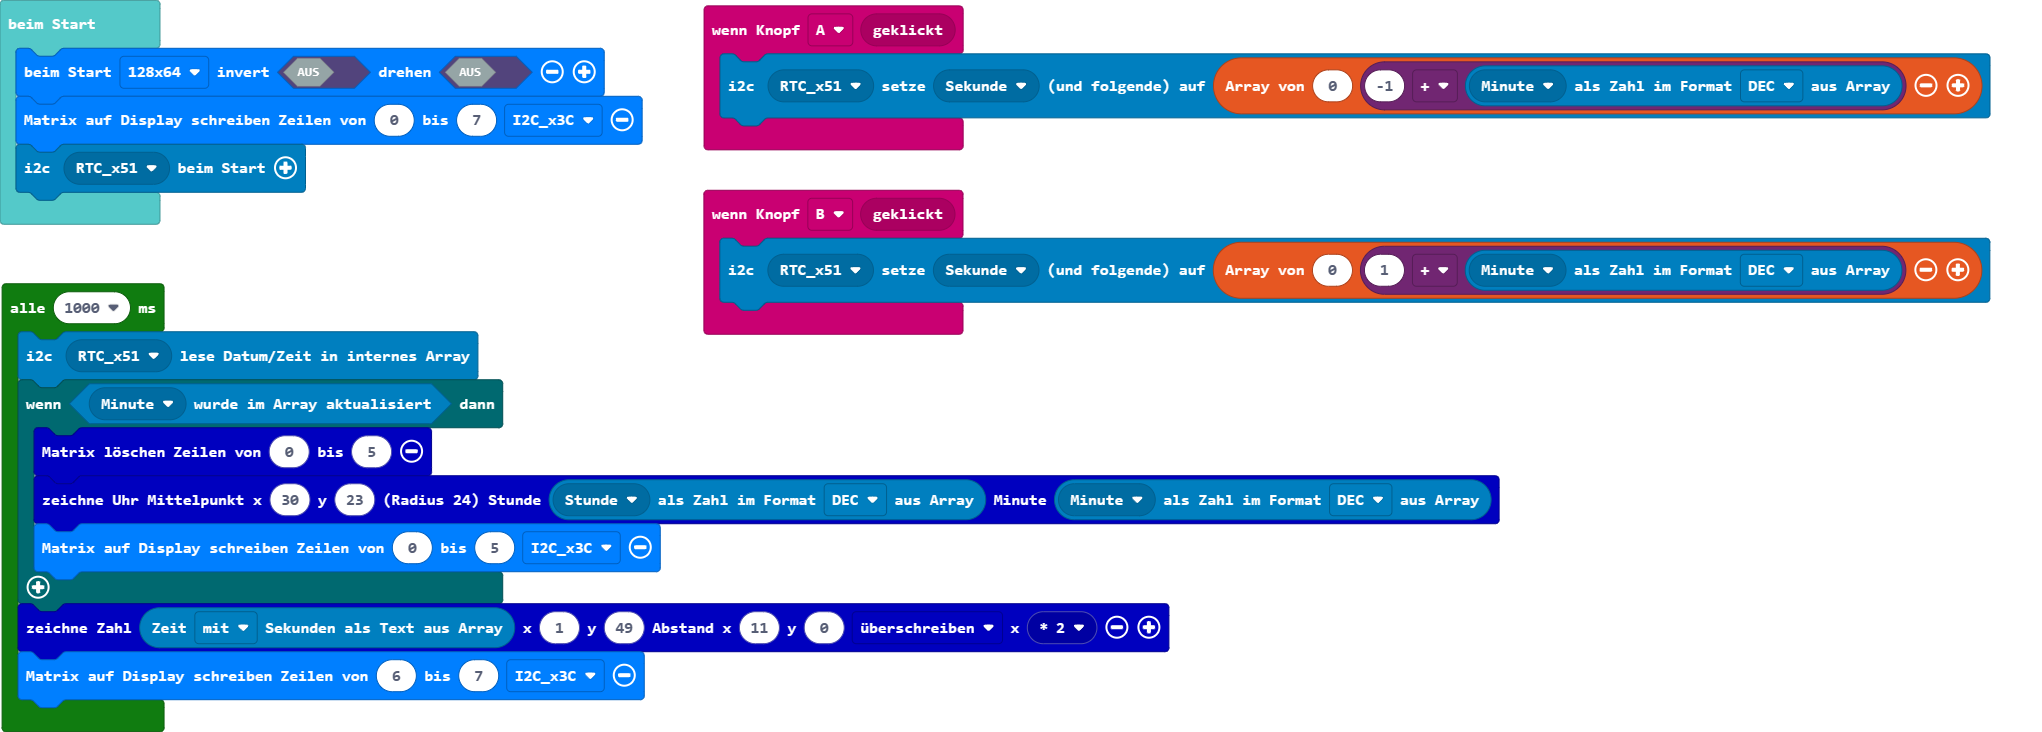
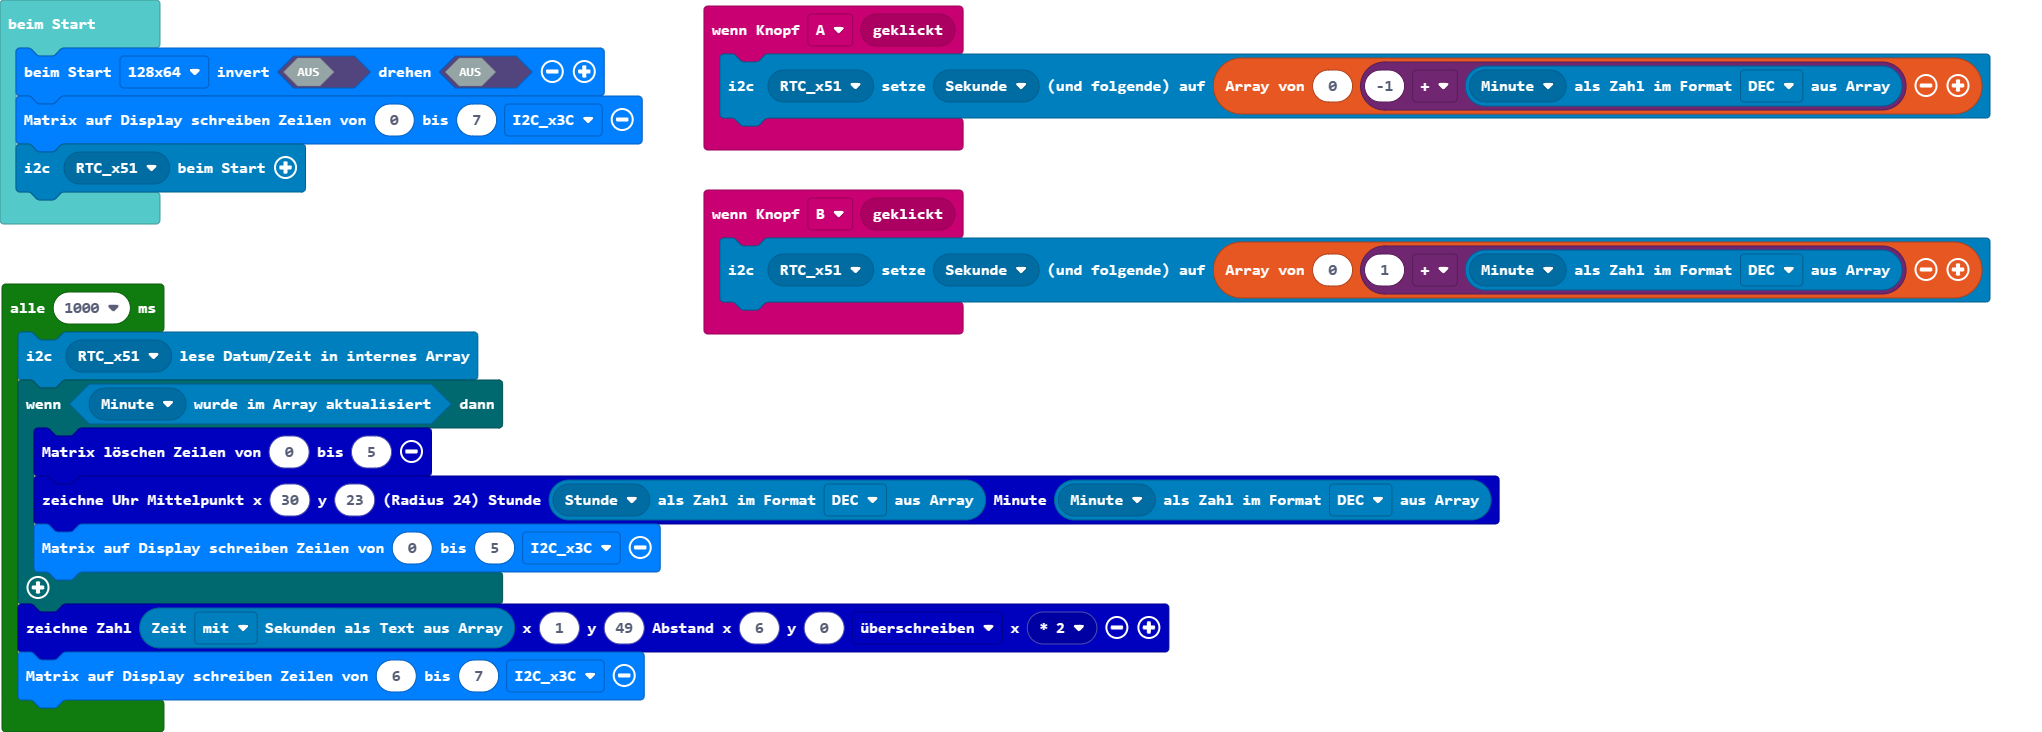
Aktualisiere main.blocks, main.ts

diff --git a/main.ts b/main.ts
@@ -14,6 +14,6 @@ loops.everyInterval(1000, function () {
         matrix.writeClock_radius24(30, 23, rtcpcf85063tp.getByte(rtcpcf85063tp.rtcpcf85063tp_eRegister(rtcpcf85063tp.eRegister.Stunde), rtcpcf85063tp.eFormat.DEC), rtcpcf85063tp.getByte(rtcpcf85063tp.rtcpcf85063tp_eRegister(rtcpcf85063tp.eRegister.Minute), rtcpcf85063tp.eFormat.DEC))
         matrix.writeDisplay(0, 5, matrix.eI2C.I2C_x3C)
     }
-    matrix.writeDigitImageArray(rtcpcf85063tp.getTime(rtcpcf85063tp.ePart.mit), 1, 49, 11, 0, matrix.eTransparent.u, matrix.oled_eFaktor(matrix.eFaktor.f2))
+    matrix.writeDigitImageArray(rtcpcf85063tp.getTime(rtcpcf85063tp.ePart.mit), 1, 49, 6, 0, matrix.eTransparent.u, matrix.oled_eFaktor(matrix.eFaktor.f2))
     matrix.writeDisplay(6, 7, matrix.eI2C.I2C_x3C)
 })
